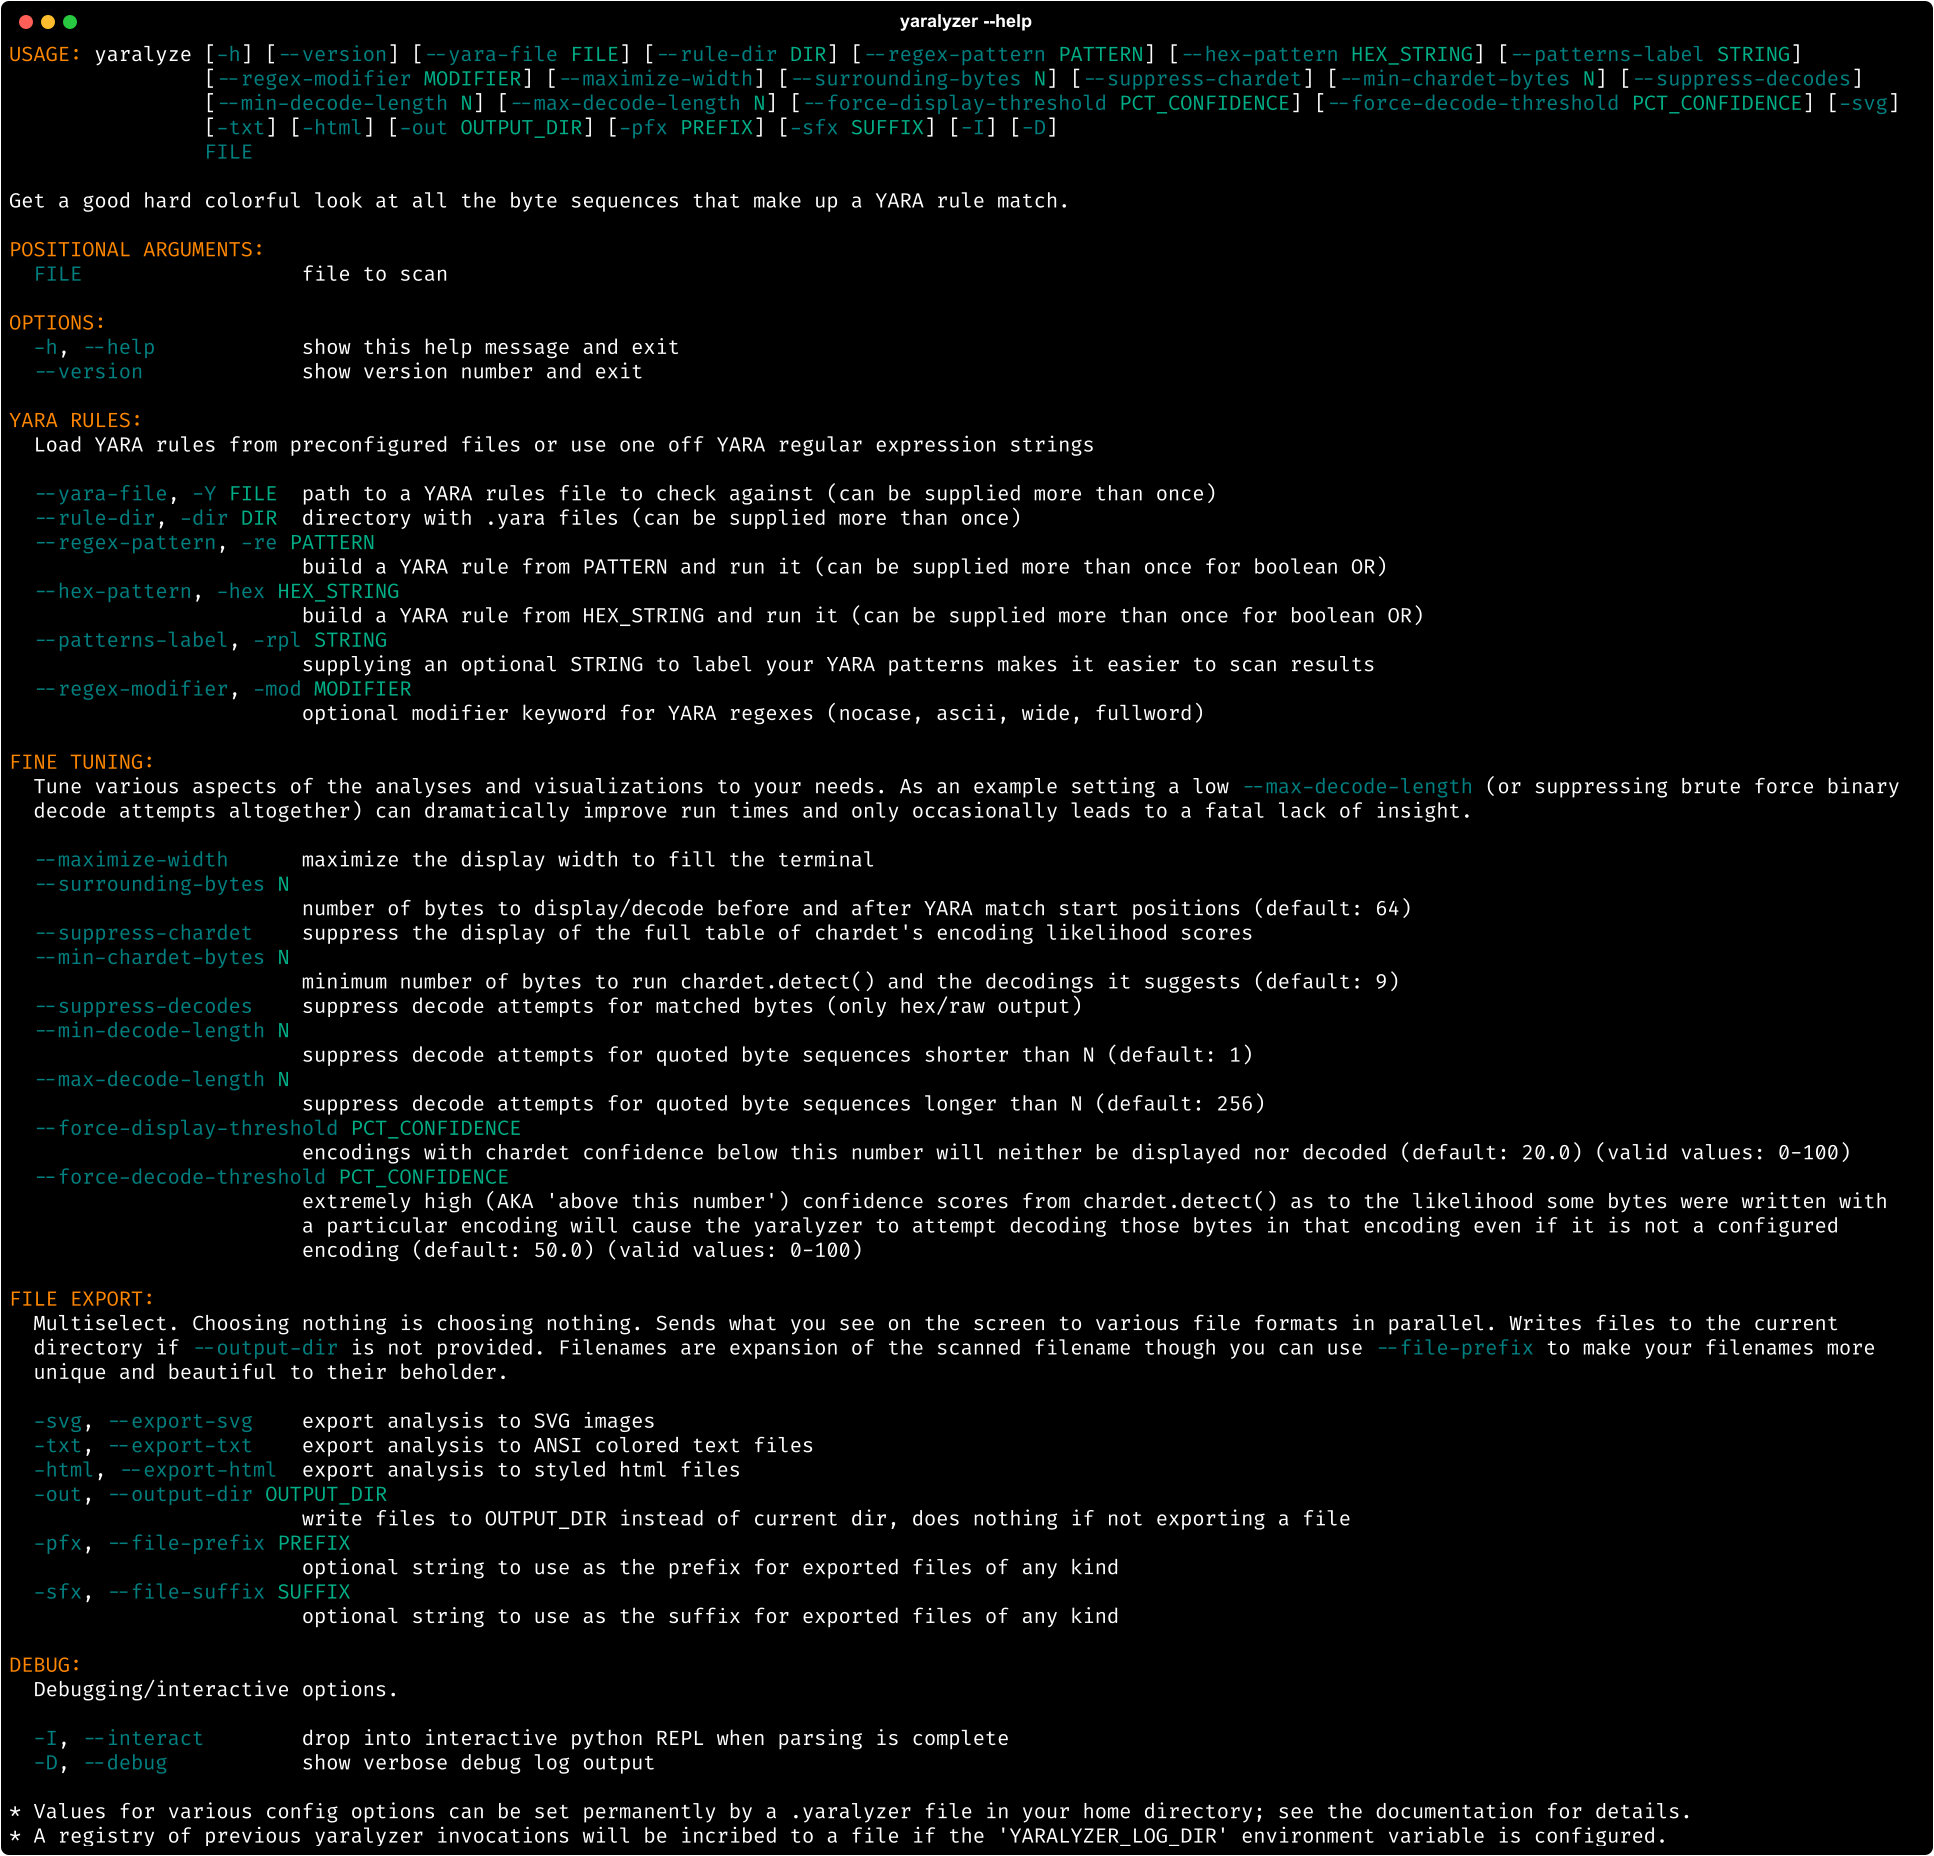
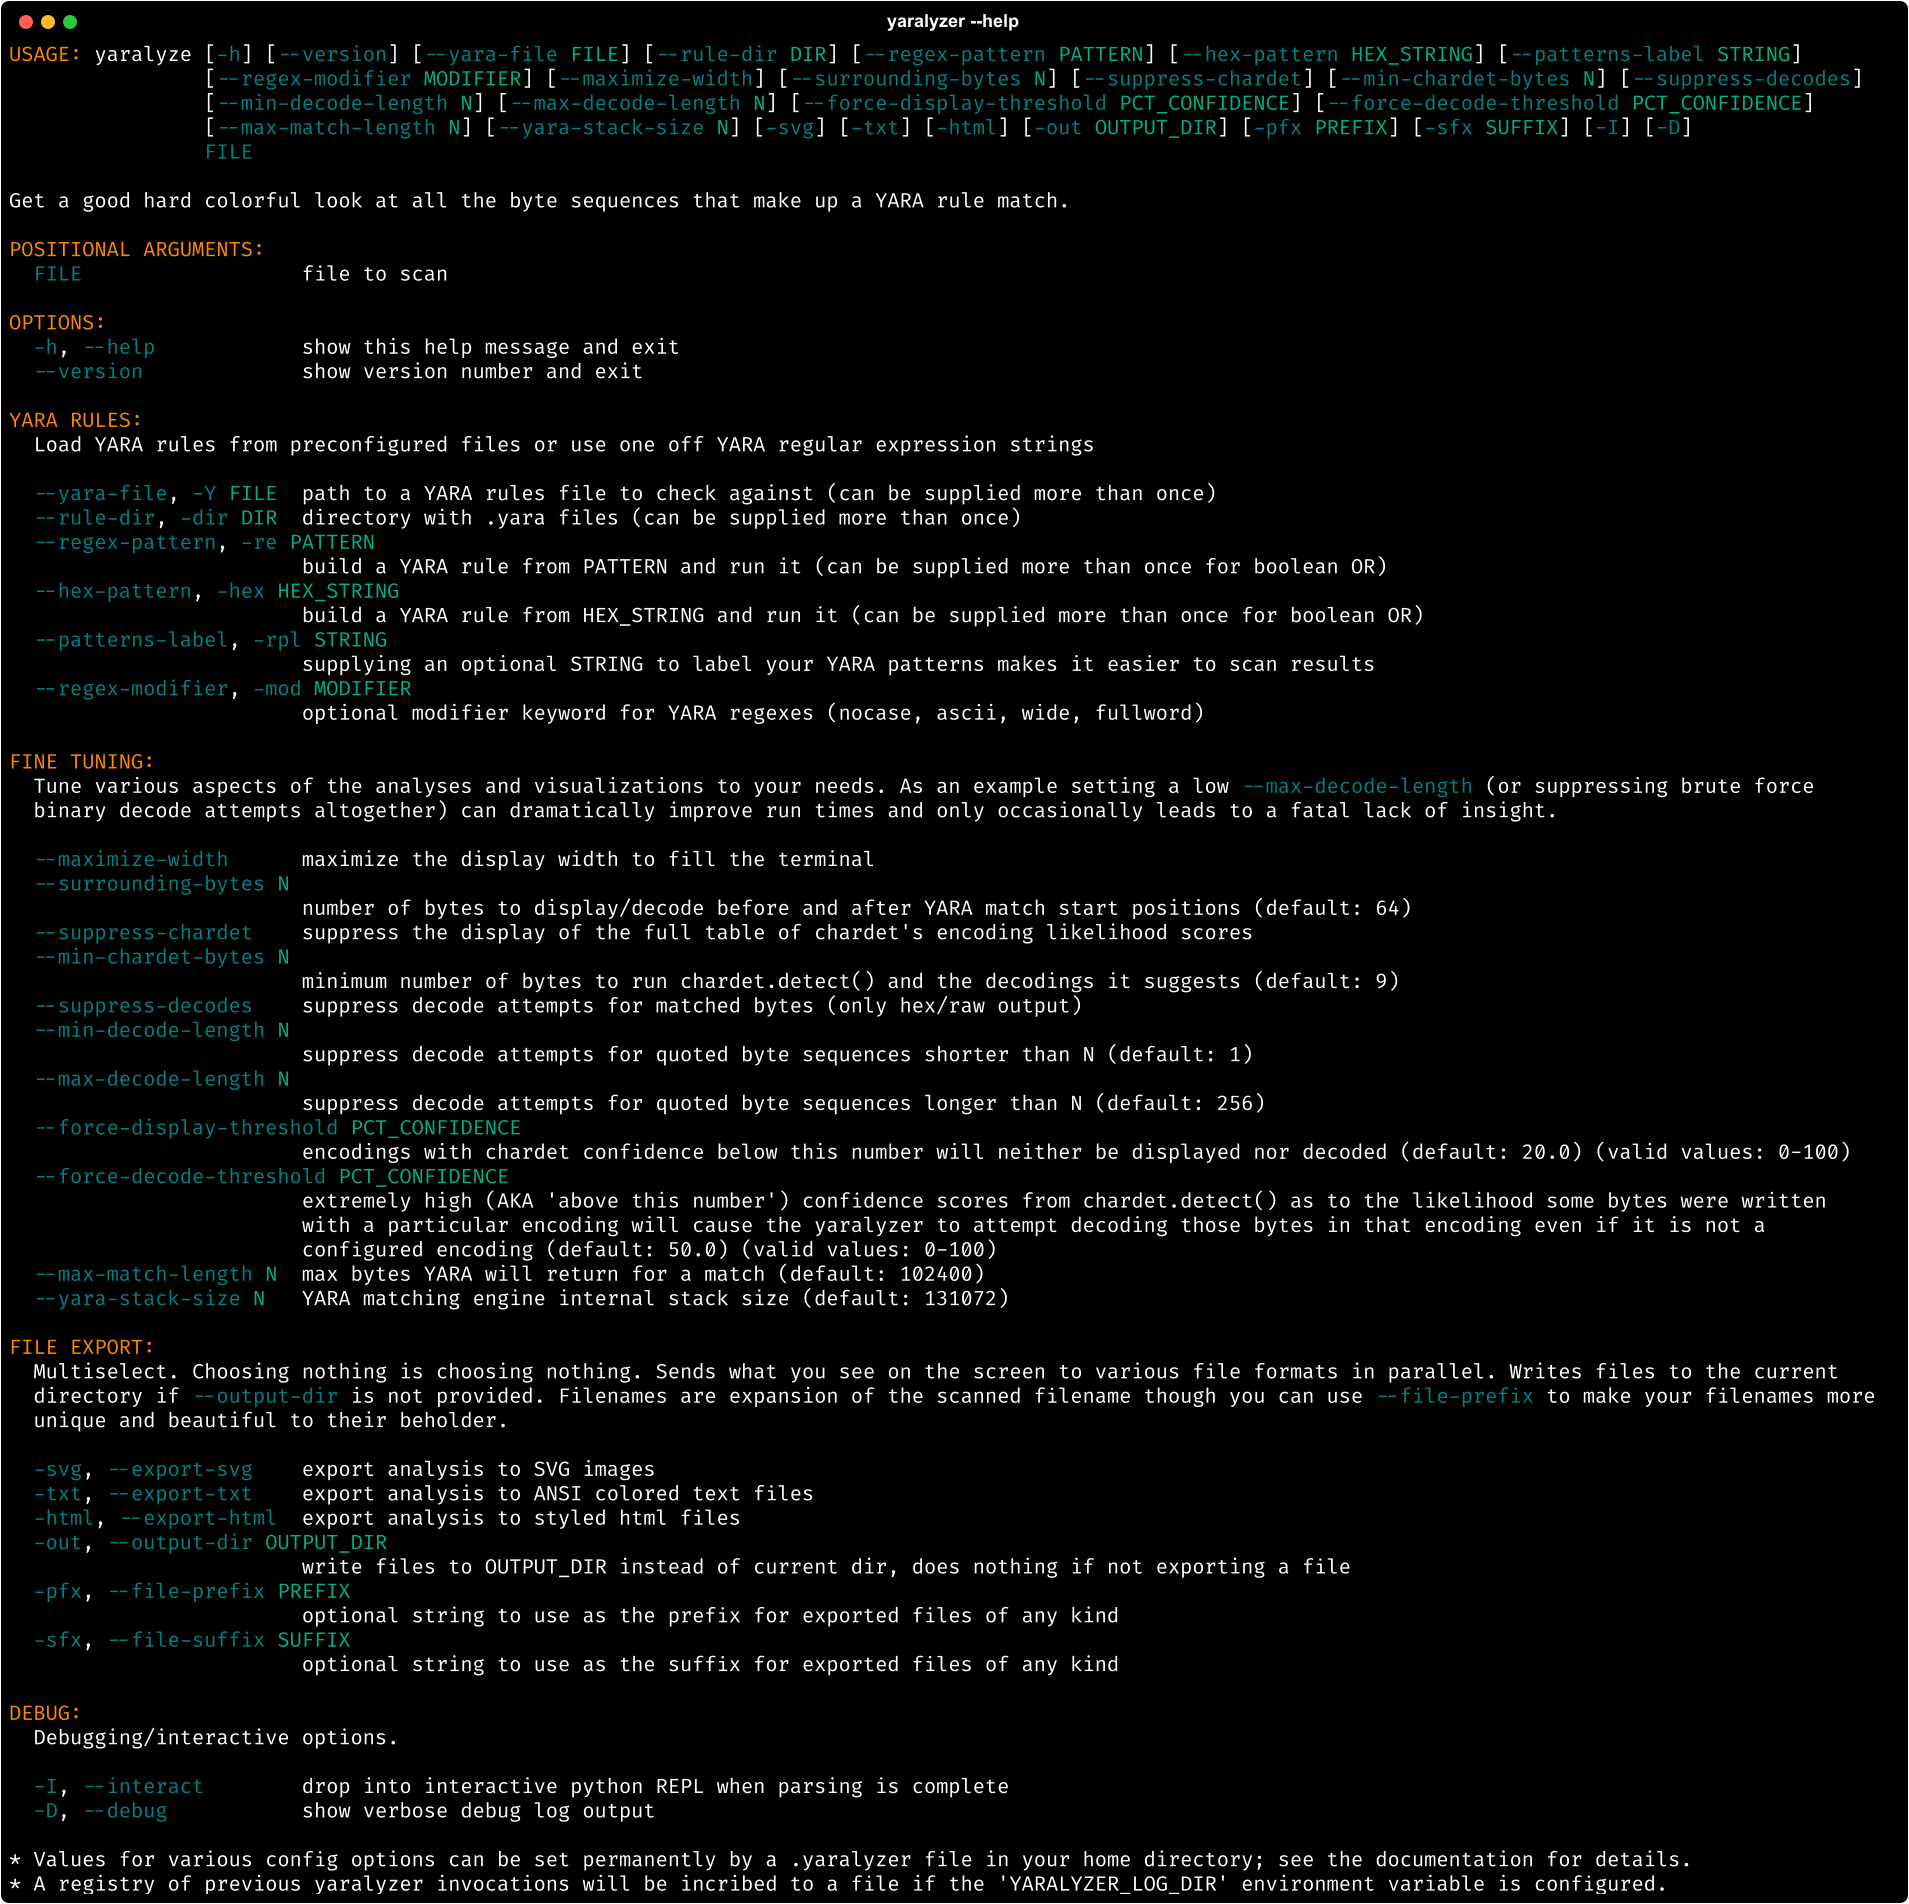
Add --max-match-length and --yara-stack-size args

diff --git a/yaralyzer/util/argument_parser.py b/yaralyzer/util/argument_parser.py
@@ -9,8 +9,8 @@ from typing import Optional
 
 from rich_argparse import RichHelpFormatter
 
-from yaralyzer.config import (DEFAULT_MIN_DECODE_LENGTH, DEFAULT_MAX_DECODE_LENGTH,
-     DEFAULT_MIN_BYTES_TO_DETECT_ENCODING, DEFAULT_SURROUNDING_BYTES, LOG_DIR_ENV_VAR,
+from yaralyzer.config import (DEFAULT_MAX_MATCH_LENGTH, DEFAULT_MIN_DECODE_LENGTH, DEFAULT_MAX_DECODE_LENGTH,
+     DEFAULT_MIN_BYTES_TO_DETECT_ENCODING, DEFAULT_SURROUNDING_BYTES, DEFAULT_YARA_STACK_SIZE, LOG_DIR_ENV_VAR,
      YaralyzerConfig)
 from yaralyzer.encoding_detection.encoding_detector import CONFIDENCE_SCORE_RANGE, EncodingDetector
 from yaralyzer.helpers.file_helper import timestamp_for_filename
@@ -151,6 +151,18 @@ tuning.add_argument('--force-decode-threshold',
                     type=int,
                     choices=CONFIDENCE_SCORE_RANGE)
 
+tuning.add_argument('--max-match-length',
+                    help="max bytes YARA will return for a match",
+                    default=DEFAULT_MAX_MATCH_LENGTH,
+                    metavar='N',
+                    type=int)
+
+tuning.add_argument('--yara-stack-size',
+                    help="YARA matching engine internal stack size",
+                    default=DEFAULT_YARA_STACK_SIZE,
+                    metavar='N',
+                    type=int)
+
 
 # Export options
 export = parser.add_argument_group(
@@ -246,6 +258,13 @@ def parse_arguments(args: Optional[Namespace] = None):
 
     if args.suppress_decodes:
         YaralyzerConfig.SUPPRESS_DECODES = args.suppress_decodes
+
+    # Yara args
+    if args.yara_stack_size != DEFAULT_YARA_STACK_SIZE:
+        YaralyzerConfig.YARA_STACK_SIZE = args.yara_stack_size
+
+    if args.max_match_length != DEFAULT_MAX_MATCH_LENGTH:
+        YaralyzerConfig.MAX_MATCH_LENGTH = args.max_match_length
 
     # chardet.detect() action thresholds
     if args.force_decode_threshold:

diff --git a/yaralyzer/config.py b/yaralyzer/config.py
@@ -4,6 +4,9 @@ from os import environ
 YARALYZE = 'yaralyze'
 PYTEST_FLAG = 'INVOKED_BY_PYTEST'
 
+KILOBYTE = 1024
+MEGABYTE = 1024 * KILOBYTE
+
 # Configuring YARALYZER_LOG_DIR has side effects; see .yaralyzer.example in repo for specifics.
 LOG_LEVEL_ENV_VAR = 'YARALYZER_LOG_LEVEL'
 LOG_DIR_ENV_VAR = 'YARALYZER_LOG_DIR'
@@ -11,6 +14,12 @@ LOG_DIR_ENV_VAR = 'YARALYZER_LOG_DIR'
 # Output suppression
 SUPPRESS_CHARDET_TABLE_ENV_VAR = 'YARALYZER_SUPPRESS_CHARDET_TABLE'
 SUPPRESS_DECODES_ENV_VAR = 'YARALYZER_SUPPRESS_DECODE'
+
+# Passed through to yara.set_config()
+DEFAULT_MAX_MATCH_LENGTH = 100 * KILOBYTE
+DEFAULT_YARA_STACK_SIZE = 2 * 65536
+MAX_MATCH_LENGTH_ENV_VAR = 'YARALYZER_MAX_MATCH_LENGTH'
+YARA_STACK_SIZE_ENV_VAR = 'YARALYZER_YARA_STACK_SIZE'
 
 # Skip decoding binary matches over this length
 DEFAULT_MIN_DECODE_LENGTH = 1
@@ -46,6 +55,9 @@ def is_invoked_by_pytest():
 class YaralyzerConfig:
     LOG_DIR = environ.get(LOG_DIR_ENV_VAR)
     LOG_LEVEL = logging.getLevelName(environ.get(LOG_LEVEL_ENV_VAR, 'WARN'))
+
+    MAX_MATCH_LENGTH = int(environ.get(MAX_MATCH_LENGTH_ENV_VAR, DEFAULT_MAX_MATCH_LENGTH))
+    YARA_STACK_SIZE = int(environ.get(YARA_STACK_SIZE_ENV_VAR, DEFAULT_YARA_STACK_SIZE))
 
     MIN_BYTES_FOR_ENCODING_DETECTION = int(environ.get(
         MIN_BYTES_TO_DETECT_ENCODING_ENV_VAR,

diff --git a/yaralyzer/yaralyzer.py b/yaralyzer/yaralyzer.py
@@ -46,6 +46,8 @@ class Yaralyzer:
         If scannable is a string it is assumed to be a file that bytes should be read from
         and the scannable_label will be set to the file's basename.
         """
+        yara.set_config(stack_size=YaralyzerConfig.YARA_STACK_SIZE, max_match_data=YaralyzerConfig.MAX_MATCH_LENGTH)
+
         if isinstance(scannable, bytes):
             if scannable_label is None:
                 raise TypeError("Must provide scannable_label arg when yaralyzing raw bytes")
@@ -55,8 +57,6 @@ class Yaralyzer:
         else:
             self.bytes: bytes = load_binary_data(scannable)
             self.scannable_label: str = scannable_label or path.basename(scannable)
-
-        yara.set_config(stack_size=len(self.bytes), max_match_data=len(self.bytes))
 
         if isinstance(rules, yara.Rules):
             self.rules: yara.Rules = rules

diff --git a/CHANGELOG.md b/CHANGELOG.md
@@ -1,5 +1,6 @@
 # NEXT RELEASE
-* Increase max returned bytes
+* Add `--max-match-length` and `--yara-stack-size` args
+* Increase max returned bytes (was stuck at 512)
 * Tweak unprintable char format for ASCII C1 control range, minor style changes
 * Show color key for raw YARA match panel
 
